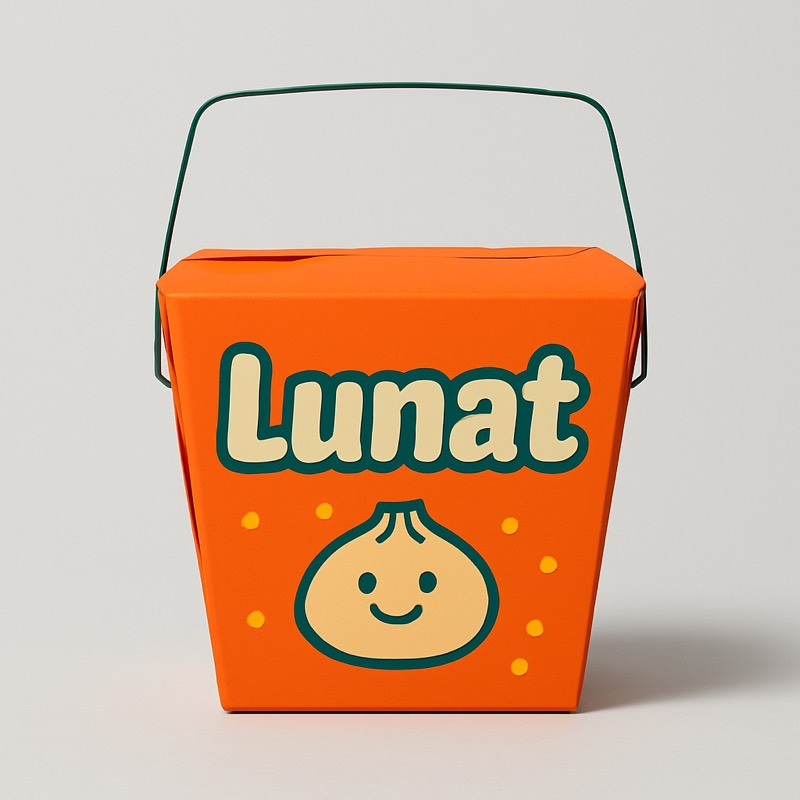
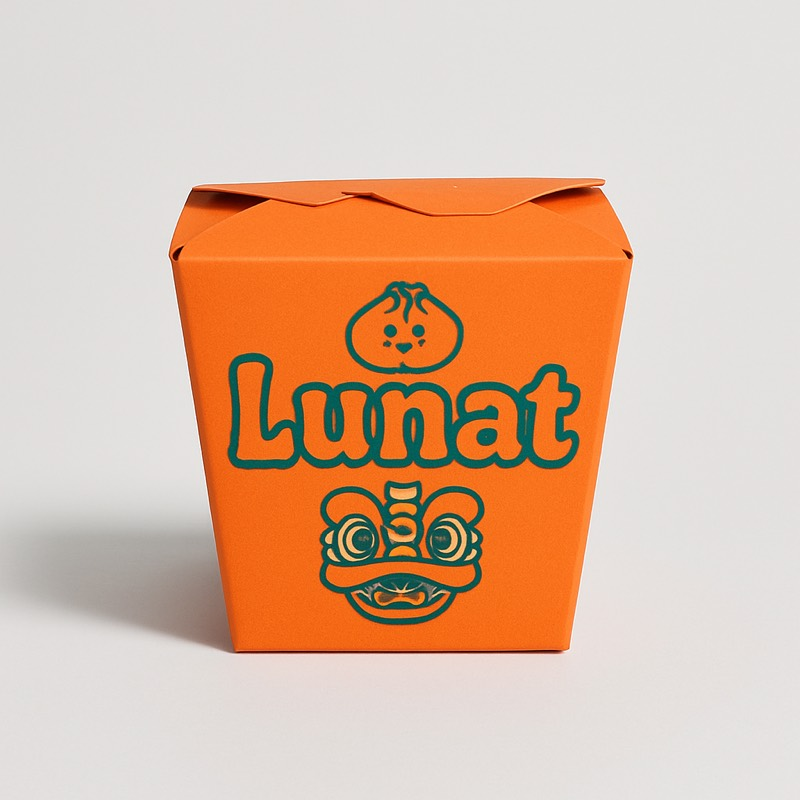
Regenerate chinese style library with the site's real takeout box shape
The old sets showed a wide-bottom wire-handle pail we do not sell. New
pipeline anchors on the real product photo: box = images/edits repaint of
prod-box-chinese.jpg (square fold-top pail, no handle), family = styled box
as reference, cup/bag derived from the family. All 24 images replaced.
styleImg() gains STYLE_VER cache-buster (?v2, inline hero script in sync) so
in-place template replacements propagate through the CDN. Cache-bust
20260727v.

diff --git a/frontend/index.html b/frontend/index.html
@@ -18,7 +18,7 @@
   <meta name="twitter:title" content="Custom Restaurant Takeout Packaging Canada | AI Design in 5 Minutes – foodPac" />
   <meta name="twitter:description" content="Branded takeout packaging for Canadian restaurants. AI-powered design in 5 minutes, 100% compostable materials, low 1,000-unit minimums, delivered across Canada." />
   <meta name="twitter:image" content="https://foodpac.ai/assets/images/hero-box.jpg?v=2" />
-  <link rel="stylesheet" href="css/tailwind.css?v=20260727u">
+  <link rel="stylesheet" href="css/tailwind.css?v=20260727v">
   <link rel="preconnect" href="https://fonts.googleapis.com">
   <link href="https://fonts.googleapis.com/css2?family=Space+Grotesk:wght@400;500;600;700&family=Inter:wght@400;500;600;700&display=swap" rel="stylesheet">
   <style>
@@ -297,7 +297,7 @@
             var parts = { 'hero-box': 'box', 'hero-cup': 'cup', 'hero-bag': 'bag', 'hero-ai': 'family' };
             for (var cell in parts) {
               var img = document.querySelector('.fp-hero-cell[data-hero="' + cell + '"] img');
-              if (img) img.src = 'assets/styles/' + type + '/' + style + '-' + parts[cell] + '.jpg';
+              if (img) img.src = 'assets/styles/' + type + '/' + style + '-' + parts[cell] + '.jpg?v2';
             }
             try { localStorage.setItem('fp_style', JSON.stringify({ type: type, style: style })); } catch (e) {}
           })();
@@ -700,10 +700,10 @@
   </script>
 
   <script type="module">
-    import { initNav, initFooter } from './js/components.js?v=20260727u';
-    import { initDesignModal } from './js/design-modal.js?v=20260727u';
-    import { getProducts } from './js/products.js?v=20260727u';
-    import { getStyle, shuffleStyle, styleImg, styleTypeForRestaurant } from './js/styles.js?v=20260727u';
+    import { initNav, initFooter } from './js/components.js?v=20260727v';
+    import { initDesignModal } from './js/design-modal.js?v=20260727v';
+    import { getProducts } from './js/products.js?v=20260727v';
+    import { getStyle, shuffleStyle, styleImg, styleTypeForRestaurant } from './js/styles.js?v=20260727v';
 
     initNav();
     initFooter();

diff --git a/frontend/products.html b/frontend/products.html
@@ -19,7 +19,7 @@
   <meta name="twitter:title" content="Custom Takeout Boxes, Cups & Eco Packaging for Restaurants – foodPac Canada" />
   <meta name="twitter:description" content="Custom-printed takeout boxes, coffee cups, kraft bags, bowls and compostable cutlery. Eco-friendly materials, low minimums from 1,000 units, shipped across Canada." />
   <meta name="twitter:image" content="https://foodpac.ai/assets/images/hero-box.jpg" />
-  <link rel="stylesheet" href="css/tailwind.css?v=20260727u">
+  <link rel="stylesheet" href="css/tailwind.css?v=20260727v">
   <link rel="preconnect" href="https://fonts.googleapis.com">
   <link href="https://fonts.googleapis.com/css2?family=Space+Grotesk:wght@400;500;600;700&family=Inter:wght@400;500;600;700;800&display=swap" rel="stylesheet">
   <link rel="stylesheet" href="css/main.css">
@@ -511,10 +511,10 @@
   <div id="footer"></div>
 
   <script type="module">
-    import { initNav, initFooter } from './js/components.js?v=20260727u';
-    import { fetchProducts, submitQuote } from './js/api.js?v=20260727u';
-    import { CATEGORIES } from './js/products.js?v=20260727u';
-    import { initDesignWidget } from './js/design-widget.js?v=20260727u';
+    import { initNav, initFooter } from './js/components.js?v=20260727v';
+    import { fetchProducts, submitQuote } from './js/api.js?v=20260727v';
+    import { CATEGORIES } from './js/products.js?v=20260727v';
+    import { initDesignWidget } from './js/design-widget.js?v=20260727v';
 
     initNav('products');
     initFooter();

diff --git a/frontend/profile.html b/frontend/profile.html
@@ -7,7 +7,7 @@
   <meta name="viewport" content="width=device-width, initial-scale=1.0" />
   <meta name="robots" content="noindex,nofollow" />
   <title>My Profile – foodPac</title>
-  <link rel="stylesheet" href="css/tailwind.css?v=20260727u">
+  <link rel="stylesheet" href="css/tailwind.css?v=20260727v">
   <link rel="preconnect" href="https://fonts.googleapis.com">
   <link rel="preconnect" href="https://fonts.gstatic.com" crossorigin>
   <link href="https://fonts.googleapis.com/css2?family=Space+Grotesk:wght@400;500;600;700&family=Inter:wght@400;500;600;700;800&display=swap" rel="stylesheet">
@@ -174,11 +174,11 @@
   <div id="footer"></div>
 
   <script type="module">
-    import { initNav, initFooter }        from './js/components.js?v=20260727u';
-    import { getCurrentUser, loginWithGoogle, logout } from './js/auth.js?v=20260727u';
-    import { API_BASE }                   from './js/api.js?v=20260727u';
-    import { avatarHtml }                 from './js/avatar.js?v=20260727u';
-    import { initDesignWidget }           from './js/design-widget.js?v=20260727u';
+    import { initNav, initFooter }        from './js/components.js?v=20260727v';
+    import { getCurrentUser, loginWithGoogle, logout } from './js/auth.js?v=20260727v';
+    import { API_BASE }                   from './js/api.js?v=20260727v';
+    import { avatarHtml }                 from './js/avatar.js?v=20260727v';
+    import { initDesignWidget }           from './js/design-widget.js?v=20260727v';
 
     initNav();
     initFooter();

diff --git a/frontend/contact.html b/frontend/contact.html
@@ -19,7 +19,7 @@
   <meta name="twitter:title" content="Get a Free Quote – Custom Restaurant Packaging Canada | foodPac" />
   <meta name="twitter:description" content="Request a free quote and AI packaging design mockup for your restaurant. Response within 24 hours. Serving Toronto, Vancouver, Montreal and all of Canada." />
   <meta name="twitter:image" content="https://foodpac.ai/assets/images/hero-box.jpg" />
-  <link rel="stylesheet" href="css/tailwind.css?v=20260727u">
+  <link rel="stylesheet" href="css/tailwind.css?v=20260727v">
   <link rel="preconnect" href="https://fonts.googleapis.com">
   <link href="https://fonts.googleapis.com/css2?family=Space+Grotesk:wght@400;500;600;700&family=Inter:wght@400;500;600;700;800&display=swap" rel="stylesheet">
   <link rel="stylesheet" href="css/main.css">
@@ -252,10 +252,10 @@
   <div id="footer"></div>
 
   <script type="module">
-    import { initNav, initFooter } from './js/components.js?v=20260727u';
-    import { submitQuote } from './js/api.js?v=20260727u';
-    import { CATEGORIES } from './js/products.js?v=20260727u';
-    import { initDesignWidget } from './js/design-widget.js?v=20260727u';
+    import { initNav, initFooter } from './js/components.js?v=20260727v';
+    import { submitQuote } from './js/api.js?v=20260727v';
+    import { CATEGORIES } from './js/products.js?v=20260727v';
+    import { initDesignWidget } from './js/design-widget.js?v=20260727v';
 
     initNav();
     initFooter();

diff --git a/frontend/index-prev.html b/frontend/index-prev.html
@@ -20,7 +20,7 @@
   <meta name="twitter:title" content="Custom Restaurant Takeout Packaging Canada | AI Design in 5 Minutes – foodPac" />
   <meta name="twitter:description" content="Branded takeout packaging for Canadian restaurants. AI-powered design in 5 minutes, 100% compostable materials, low 1,000-unit minimums, delivered across Canada." />
   <meta name="twitter:image" content="https://foodpac.ai/assets/images/hero-box.jpg?v=2" />
-  <link rel="stylesheet" href="css/tailwind.css?v=20260727u">
+  <link rel="stylesheet" href="css/tailwind.css?v=20260727v">
   <link rel="preconnect" href="https://fonts.googleapis.com">
   <link href="https://fonts.googleapis.com/css2?family=Space+Grotesk:wght@400;500;600;700&family=Inter:wght@400;500;600;700;800&display=swap" rel="stylesheet">
   <link rel="stylesheet" href="css/main.css">
@@ -470,9 +470,9 @@
   <div id="footer"></div>
 
   <script type="module">
-    import { initNav, initFooter } from './js/components.js?v=20260727u';
-    import { CATEGORIES } from './js/products.js?v=20260727u';
-    import { initDesignWidget } from './js/design-widget.js?v=20260727u';
+    import { initNav, initFooter } from './js/components.js?v=20260727v';
+    import { CATEGORIES } from './js/products.js?v=20260727v';
+    import { initDesignWidget } from './js/design-widget.js?v=20260727v';
 
     initNav();
     initFooter();

diff --git a/frontend/design.html b/frontend/design.html
@@ -6,7 +6,7 @@
   <meta name="viewport" content="width=device-width, initial-scale=1.0" />
   <meta name="robots" content="noindex,nofollow" />
   <title>Design Your Packaging – foodPac</title>
-  <link rel="stylesheet" href="css/tailwind.css?v=20260727u">
+  <link rel="stylesheet" href="css/tailwind.css?v=20260727v">
   <link href="https://fonts.googleapis.com/css2?family=Space+Grotesk:wght@400;500;600;700&family=Inter:wght@400;500;600;700&display=swap" rel="stylesheet">
   <style>
     .chat-bubble-user { background:#2e7d32; color:#fff; border-radius:18px 18px 4px 18px; }
@@ -314,10 +314,10 @@
   </div>
 
   <script type="module">
-    import { initNav, initFooter }             from './js/components.js?v=20260727u';
-    import { getCurrentUser, loginWithGoogle } from './js/auth.js?v=20260727u';
-    import { API_BASE }                        from './js/api.js?v=20260727u';
-    import { _refreshCartBadge }               from './js/components.js?v=20260727u';
+    import { initNav, initFooter }             from './js/components.js?v=20260727v';
+    import { getCurrentUser, loginWithGoogle } from './js/auth.js?v=20260727v';
+    import { API_BASE }                        from './js/api.js?v=20260727v';
+    import { _refreshCartBadge }               from './js/components.js?v=20260727v';
 
     initNav();
     initFooter();

diff --git a/frontend/design-history.html b/frontend/design-history.html
@@ -7,7 +7,7 @@
   <link rel="apple-touch-icon" href="assets/images/apple-touch-icon.png">
   <meta name="viewport" content="width=device-width, initial-scale=1.0" />
   <title>My Design History – foodPac</title>
-  <link rel="stylesheet" href="css/tailwind.css?v=20260727u">
+  <link rel="stylesheet" href="css/tailwind.css?v=20260727v">
   <link rel="preconnect" href="https://fonts.googleapis.com">
   <link href="https://fonts.googleapis.com/css2?family=Space+Grotesk:wght@400;500;600;700&family=Inter:wght@400;500;600;700;800&display=swap" rel="stylesheet">
   <link rel="stylesheet" href="css/main.css">
@@ -89,10 +89,10 @@
 
 
   <script type="module">
-    import { initNav, initFooter } from './js/components.js?v=20260727u';
-    import { getCurrentUser, loginWithGoogle } from './js/auth.js?v=20260727u';
-    import { API_BASE } from './js/api.js?v=20260727u';
-    import { initDesignWidget } from './js/design-widget.js?v=20260727u';
+    import { initNav, initFooter } from './js/components.js?v=20260727v';
+    import { getCurrentUser, loginWithGoogle } from './js/auth.js?v=20260727v';
+    import { API_BASE } from './js/api.js?v=20260727v';
+    import { initDesignWidget } from './js/design-widget.js?v=20260727v';
 
     initNav();
     initFooter();

diff --git a/frontend/about.html b/frontend/about.html
@@ -19,7 +19,7 @@
   <meta name="twitter:title" content="About foodPac – Custom Food Packaging for Canadian Restaurants" />
   <meta name="twitter:description" content="foodPac helps independent Canadian restaurants get professional branded packaging with AI-powered design, compostable materials and flexible small-batch ordering." />
   <meta name="twitter:image" content="https://foodpac.ai/assets/images/hero-box.jpg" />
-  <link rel="stylesheet" href="css/tailwind.css?v=20260727u">
+  <link rel="stylesheet" href="css/tailwind.css?v=20260727v">
   <link rel="preconnect" href="https://fonts.googleapis.com">
   <link href="https://fonts.googleapis.com/css2?family=Space+Grotesk:wght@400;500;600;700&family=Inter:wght@400;500;600;700;800&display=swap" rel="stylesheet">
   <link rel="stylesheet" href="css/main.css">
@@ -169,8 +169,8 @@
   <div id="footer"></div>
 
   <script type="module">
-    import { initNav, initFooter } from './js/components.js?v=20260727u';
-    import { initDesignWidget } from './js/design-widget.js?v=20260727u';
+    import { initNav, initFooter } from './js/components.js?v=20260727v';
+    import { initDesignWidget } from './js/design-widget.js?v=20260727v';
     initNav('about');
     initFooter();
     initDesignWidget();

diff --git a/frontend/product.html b/frontend/product.html
@@ -7,7 +7,7 @@
   <meta name="viewport" content="width=device-width, initial-scale=1.0" />
   <title>Product – foodPac</title>
   <meta name="description" content="Custom branded food packaging for Canadian restaurants — free AI design, low minimums, nationwide delivery." />
-  <link rel="stylesheet" href="css/tailwind.css?v=20260727u">
+  <link rel="stylesheet" href="css/tailwind.css?v=20260727v">
   <link rel="preconnect" href="https://fonts.googleapis.com">
   <link href="https://fonts.googleapis.com/css2?family=Space+Grotesk:wght@400;500;600;700&family=Inter:wght@400;500;600;700&display=swap" rel="stylesheet">
   <link rel="stylesheet" href="css/main.css">
@@ -339,9 +339,9 @@
   </style>
 
   <script type="module">
-    import { initNav, initFooter, _refreshCartBadge } from './js/components.js?v=20260727u';
-    import { getProducts } from './js/products.js?v=20260727u';
-    import { initDesignModal } from './js/design-modal.js?v=20260727u';
+    import { initNav, initFooter, _refreshCartBadge } from './js/components.js?v=20260727v';
+    import { getProducts } from './js/products.js?v=20260727v';
+    import { initDesignModal } from './js/design-modal.js?v=20260727v';
 
     initNav('products');
     initFooter();

diff --git a/frontend/orders.html b/frontend/orders.html
@@ -6,7 +6,7 @@
   <meta name="viewport" content="width=device-width, initial-scale=1.0" />
   <meta name="robots" content="noindex,nofollow" />
   <title>My Orders – foodPac</title>
-  <link rel="stylesheet" href="css/tailwind.css?v=20260727u">
+  <link rel="stylesheet" href="css/tailwind.css?v=20260727v">
   <link rel="preconnect" href="https://fonts.googleapis.com">
   <link href="https://fonts.googleapis.com/css2?family=Space+Grotesk:wght@400;500;600;700&family=Inter:wght@400;500;600;700;800&display=swap" rel="stylesheet">
   <link rel="stylesheet" href="css/main.css">
@@ -99,8 +99,8 @@
   <div id="footer"></div>
 
   <script type="module">
-    import { initNav, initFooter } from './js/components.js?v=20260727u';
-    import { initOrders } from './js/orders.js?v=20260727u';
+    import { initNav, initFooter } from './js/components.js?v=20260727v';
+    import { initOrders } from './js/orders.js?v=20260727v';
     initNav();
     initFooter();
     initOrders();

diff --git a/frontend/cart.html b/frontend/cart.html
@@ -6,7 +6,7 @@
   <meta name="viewport" content="width=device-width, initial-scale=1.0" />
   <meta name="robots" content="noindex,nofollow" />
   <title>My Cart – foodPac</title>
-  <link rel="stylesheet" href="css/tailwind.css?v=20260727u">
+  <link rel="stylesheet" href="css/tailwind.css?v=20260727v">
   <link rel="preconnect" href="https://fonts.googleapis.com">
   <link href="https://fonts.googleapis.com/css2?family=Space+Grotesk:wght@400;500;600;700&family=Inter:wght@400;500;600;700;800&display=swap" rel="stylesheet">
   <link rel="stylesheet" href="css/main.css">
@@ -200,8 +200,8 @@
   <div id="footer"></div>
 
   <script type="module">
-    import { initNav, initFooter } from './js/components.js?v=20260727u';
-    import { initCart } from './js/cart.js?v=20260727u';
+    import { initNav, initFooter } from './js/components.js?v=20260727v';
+    import { initCart } from './js/cart.js?v=20260727v';
     initNav();
     initFooter();
     initCart();

diff --git a/frontend/js/design-modal.js b/frontend/js/design-modal.js
@@ -13,9 +13,9 @@
  *   window.fpChipBusy(on)     — toggle the chip generating animation
  */
 
-import { loginWithGoogle } from './auth.js?v=20260727u';
-import { _refreshCartBadge } from './components.js?v=20260727u';
-import { STYLE_LIBRARY, styleImg, getStyle, setStyle } from './styles.js?v=20260727u';
+import { loginWithGoogle } from './auth.js?v=20260727v';
+import { _refreshCartBadge } from './components.js?v=20260727v';
+import { STYLE_LIBRARY, styleImg, getStyle, setStyle } from './styles.js?v=20260727v';
 
 const FP_CSS = `
   .fp-swatch.sel { outline: 3px solid #1b5e20; outline-offset: 2px; }
